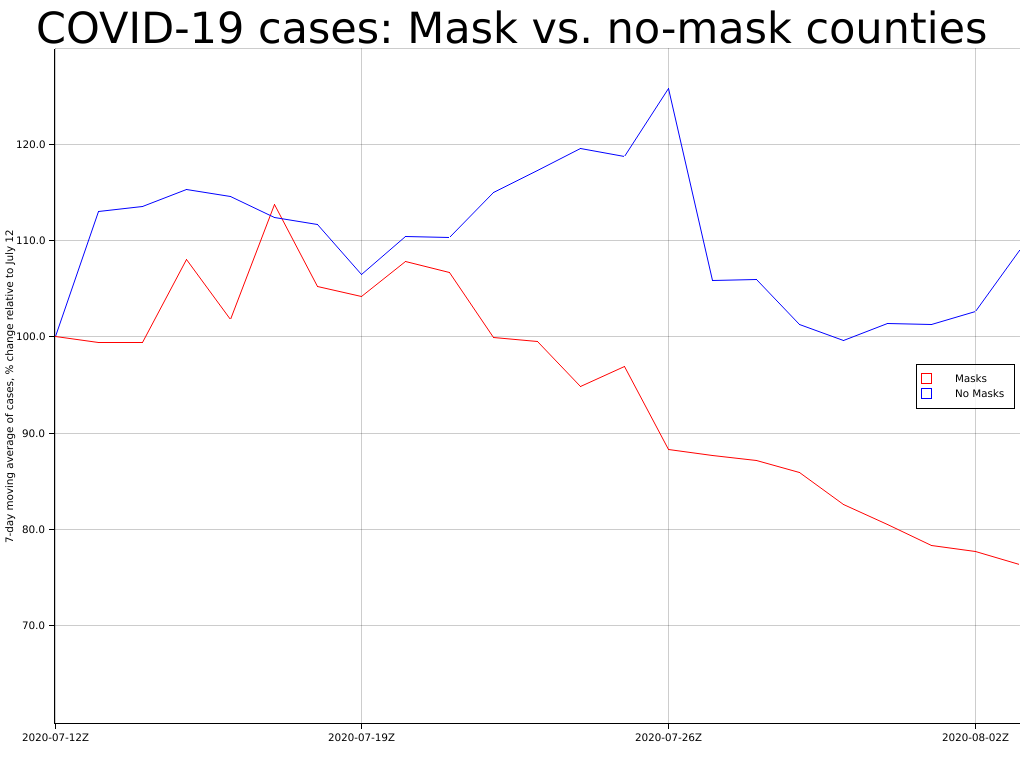
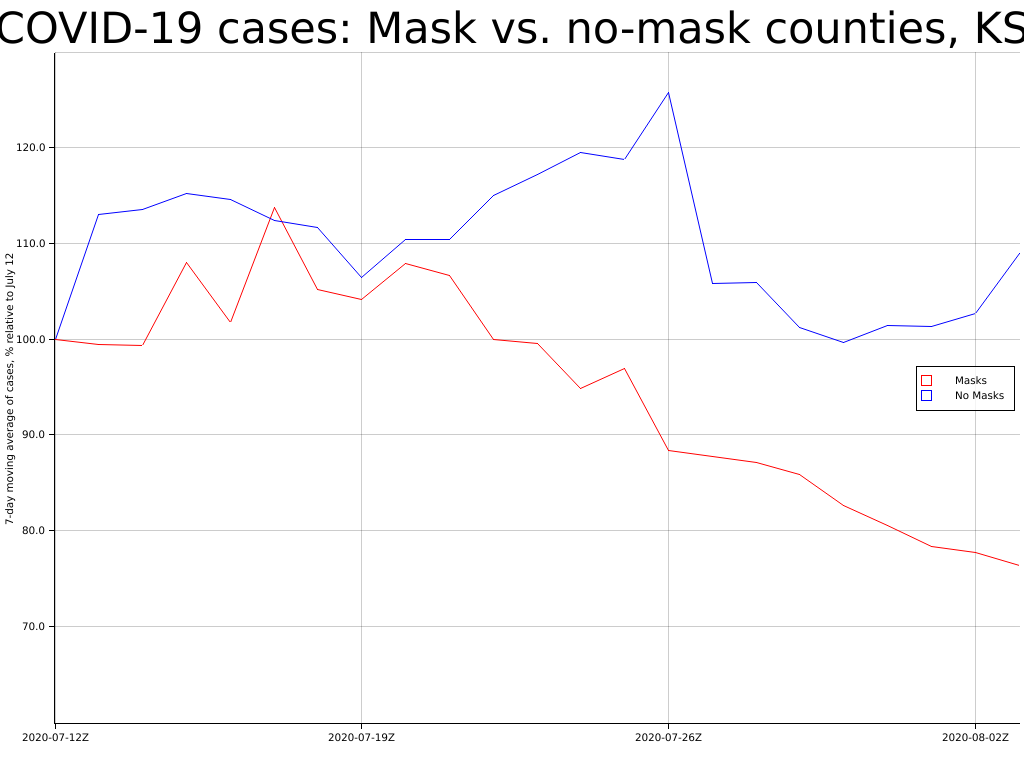
Small tweaks

diff --git a/src/charts.rs b/src/charts.rs
@@ -39,7 +39,7 @@ pub fn write(
         .y_label_area_size(50)
         .margin(5)
         .caption(
-            "COVID-19 cases: Mask vs. no-mask counties",
+            "COVID-19 cases: Mask vs. no-mask counties, KS",
             ("sans-serif", 50.0).into_font(),
         )
         .build_ranged(
@@ -51,7 +51,7 @@ pub fn write(
     chart
         .configure_mesh()
         .line_style_2(&WHITE)
-        .y_desc("7-day moving average of cases, % change relative to July 12")
+        .y_desc("7-day moving average of cases, % relative to July 12")
         .draw()
         .expect("draw");
 
@@ -119,7 +119,7 @@ pub fn writecounties(
     chart
         .configure_mesh()
         .line_style_2(&WHITE)
-        .y_desc("7-day moving average of cases, % change relative to July 12")
+        .y_desc("7-day moving average of cases, % relative to July 12")
         .draw()
         .expect("draw");
 

diff --git a/src/main.rs b/src/main.rs
@@ -27,7 +27,7 @@ mod parser;
 
 /// Returns the first positional argument sent to this process. If there are no
 /// positional arguments, then this returns an error.
-fn get_first_arg() -> Result<OsString, Box<Error>> {
+fn get_first_arg() -> Result<OsString, Box<dyn Error>> {
     match env::args_os().nth(1) {
         None => Err(From::from("expected 1 argument, but got none")),
         Some(file_path) => Ok(file_path),

diff --git a/src/parser.rs b/src/parser.rs
@@ -61,7 +61,7 @@ pub fn rec_to_struct(record: csv::StringRecord) -> Option<Record> {
     return None;
 }
 
-pub fn parse_init_file(filename: String) -> Result<csv::Reader<File>, Box<Error>> {
+pub fn parse_init_file(filename: String) -> Result<csv::Reader<File>, Box<dyn Error>> {
     let file = File::open(filename)?;
     let rdr = csv::ReaderBuilder::new()
         .delimiter(b',')

diff --git a/src/analysis.rs b/src/analysis.rs
@@ -19,7 +19,6 @@ Copyright (c) 2019 John Goerzen
 
 use crate::parser;
 use chrono::naive::NaiveDate;
-use rctree::Node;
 use std::collections::HashMap;
 
 #[derive(Debug, PartialEq, Clone)]
